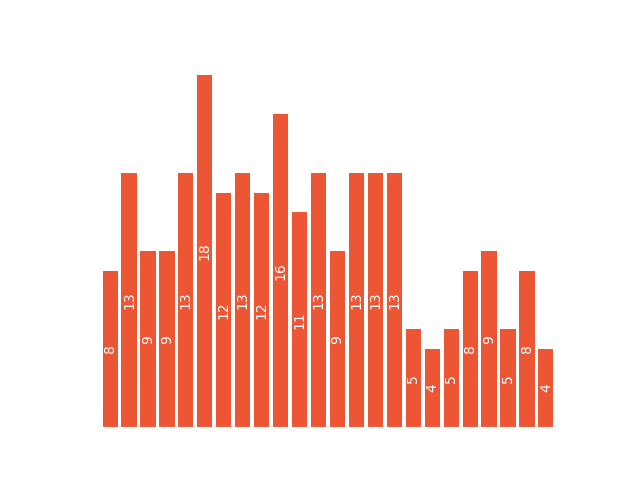
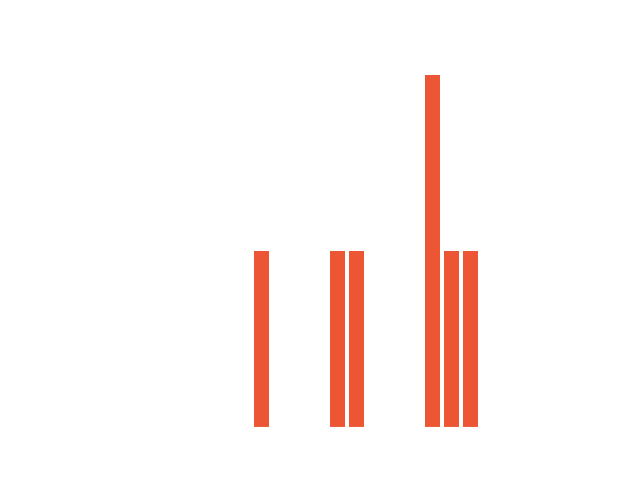
Contest Fixed
pay me

Changed region(s): [[0.1562, 0.1562, 0.875, 0.9062]]

diff --git a/cogs/contest_tracker.py b/cogs/contest_tracker.py
@@ -1,7 +1,7 @@
 # -*- coding: utf-8 -*-
 from __future__ import annotations
 
-from typing import TYPE_CHECKING,Literal
+from typing import TYPE_CHECKING, Literal
 
 import discord
 from discord import app_commands
@@ -9,6 +9,7 @@ from discord.ext import commands
 import aiohttp
 import aiomysql
 import json
+import sys, os
 import time
 import datetime
 import matplotlib.pyplot as plt
@@ -16,79 +17,132 @@ import matplotlib.pyplot as plt
 if TYPE_CHECKING:
     from utils import FarmingCouncil
 
-
 class contesttracker(commands.Cog):
     def __init__(self, bot: FarmingCouncil):
         self.bot: FarmingCouncil = bot
         self.session: aiohttp.ClientSession | None = None
-        
+
     async def setup_hook(self) -> None:
         self.session = aiohttp.ClientSession()
-    
+
     @app_commands.command(description="Find Contests in a given time period")
     @app_commands.guild_only()
-    @app_commands.describe(ign = "Hypixel username", time_period = "Time range you want to")
-    async def contests(self, interaction: discord.Interaction, ign: str, time_period: Literal["1 day", "1 week", "1 month", "6 months", "1 year", "2 years", "3 years"] = "1 week"):
+    @app_commands.describe(ign="Hypixel username", profile= "choose the hypixel skyblock profile", time_period="Use the time range ['1 year', '1month', '6days', '2 weeks']")
+    async def contests(self, interaction: discord.Interaction, ign: str, profile: str = None, time_period: str = "1 week"):
         try:
-            uuid = await self.bot.get_uuid(ign)
-            profile = await self.bot.get_most_recent_profile(uuid)
-            skyblock_data = await self.bot.get_skyblock_data_SLOTHPIXEL(ign, profile, uuid)
+            await interaction.response.send_message("Loading Graph")
+            try:
+                uuid = await self.bot.get_uuid(ign)
+                if profile == None:
+                    profile = await self.bot.get_most_recent_profile(uuid)
+                skyblock_data = await self.bot.get_skyblock_data_SLOTHPIXEL(ign, profile, uuid)
+            except Exception as e:
+                await interaction.edit_original_response(content="Name Invalid, try another IGN")
+                return
+            contests = skyblock_data["jacob2"]["contests"]
+            currenttime = int(time.time())
+            currenttime = str(datetime.datetime.fromtimestamp(currenttime))
+            time_period_fixed = ""
+            amount = ""
+            for i in time_period:
+                if i not in ["0", "1", "2", "3", "4", "5", "6", "7", "8", "9"]:
+                    time_period_fixed += i
+                else:
+                    amount += i
+            time_period = time_period_fixed
+            a = amount
+            days = ["d", " d", "days", " days", "day", " day"]
+            weeks = ["w", " w", "weeks", " weeks", "week", " week"]
+            months = ["m", " m", "months", " months", "month", " month"]
+            years = ["y", " y", "years", " years", "year", " year"]
+            if time_period.lower() in days:
+                amount = int(amount)
+            elif time_period.lower() in weeks:
+                amount = int(amount) * 7
+            elif time_period.lower() in months:
+                amount = int(amount) * 31
+            elif time_period.lower() in years:
+                amount = int(amount) * 365
+            contestsInTimePeriod = {}
+            for contest in contests:
+                day_data = contest.split(":")
+                day = day_data[0] + "_" + day_data[1]
+                skyblockday = day.split("_")
+                year, month, day = skyblockday[0], skyblockday[1], skyblockday[2]
+                epochSeconds = 1560275700 - 14400 - 432000 - 3600
+                totalDays = ((int(year)+1) * 372) + ((int(month)-1) * 31) + (int(day))
+                realLifeSeconds = ((totalDays * 20 ) * 60)
+                skyblockunix = epochSeconds + realLifeSeconds
+                skyblocktime = str(datetime.datetime.fromtimestamp(skyblockunix))
+                difference =  datetime.datetime.fromtimestamp(int(time.time())) - datetime.datetime.fromtimestamp(skyblockunix)
+                difference = str(difference)
+                hours = None
+                try: 
+                    days = int(difference.split(" day, ")[0])
+                except:
+                    try:
+                        days = int(difference.split(" days, ")[0])
+                    except:
+                        hours = difference.split(" days, ")[0].split(":")[0]
+                if hours == None:
+                    if days < amount:
+                        contestsInTimePeriod[skyblocktime] = day_data[2]
+                else:
+                    amount = 24*amount
+                    if int(hours) < amount:
+                        contestsInTimePeriod[skyblocktime] = day_data[2]
+            send = {}
+            for contest in contestsInTimePeriod:
+                contest = datetime.datetime.strptime(str(contest), '%Y-%m-%d %H:%M:%S')
+                
+                try:
+                    send[contest.hour] = send[contest.hour] + 1
+                except:
+                    send[contest.hour] = 1
+            counter = 0
+            timers = []
+            timecounter = 0
+            counters = ()
+            for line in range(0, 24):
+                timers.append(counter)
+                try:
+                    timecounter += int(send[counter])
+                    counters += (int(send[counter]),)
+                except:
+                    counters += (0,)
+                counter += 1
+            fig, ax = plt.subplots()
+            plt.xticks(timers, ["12am", " ", "2am", "", "4am", "", "6am", "", "8am", "", "10am", "", "12pm", " ", "2pm", "", "4pm", "", "6pm", "", "8pm", "", "10pm", " "], rotation=45)
+            bars = ax.bar(timers, counters, color="#ec5635")
+            ax.spines['bottom'].set_color('white')
+            ax.spines['top'].set_color(None)
+            ax.spines['left'].set_color('white')
+            ax.spines['right'].set_color(None)
+            ax.xaxis.label.set_color('white')
+            ax.yaxis.label.set_color('white')
+            ax.tick_params(axis='x', colors='white')
+            ax.tick_params(axis='y', colors='white')
+            ax.bar_label(bars, color="white", rotation=90,
+                        label_type="edge", padding=5)
+            plt.savefig('image.png', transparent=True)
+            image = discord.File("image.png")
+            embed = discord.Embed(
+                title="Contests Tracker", description=f"The chart displays the player's **Jacob Contest's** participation hours in a day (UTC) over the past `{a}{time_period}`.  This information provides a comprehensive view of when the player `{ign}` was online and participated in the contest during this time period.\nTotal amount of Jacob Contest participations: `{timecounter}`", color=0x2F3136)
+            embed.set_image(url='attachment://image.png')
+            embed.set_footer(text="Made by FarmingCouncil",
+                            icon_url="https://i.imgur.com/4YXjLqq.png")
+            if send == {}:
+                embed = discord.Embed(
+                    title="Contests Tracker", description=f"`{ign}` has not particpated in any **Jacob Contest's** in the past `{time_period}`", color=0x2F3136)
+                await interaction.edit_original_response(content="", embed=embed)
+            else:
+                await interaction.edit_original_response(content="", embed=embed, attachments=[image])
         except Exception as e:
-            await interaction.response.send_message("Name Invalid, try another IGN", ephemeral=True)
-            return
-        await interaction.response.send_message("Loading Graph")
-        contests = skyblock_data["jacob2"]["contests"]
-        currenttime = int(time.time())
-        timestable = {"1 day": 86400, "1 week": 604800, "1 month": 2629743, "6 months": 15778458, "1 year": 31556926, "2 years": 31556926*2, "3 years": 31556926*3}
-        contestsInTimePeriod = {}
-        for contest in contests:
-            day_data = contest.split(":")
-            day = day_data[0] + "_"+ day_data[1]
-            skyblockday  = day.split("_")
-            year, month, day = skyblockday[0], skyblockday[1], skyblockday[2]
-            skyblockunix = ((int(year)+1)*365*60*20)+(int(day)*31*60*20)+(int(month)*60*20)+1560275700
-            if currenttime // timestable[time_period] == ((skyblockunix // timestable[time_period])+1):
-                contestsInTimePeriod[skyblockunix] = day_data[2]
-        send = {}
-        for contest in contestsInTimePeriod:
-            try:
-                send[datetime.datetime.fromtimestamp(contest).hour] = send[datetime.datetime.fromtimestamp(contest).hour] + 1
-            except:
-                send[datetime.datetime.fromtimestamp(contest).hour] = 1
-        counter = 0
-        timers = []
-        timecounter = 0
-        counters = ()
-        for line in range(0, 24):
-            timers.append(line)
-            try:
-                timecounter += int(send[counter])
-                counters += (int(send[counter]),)
-            except:
-                counters += (0,)
-            counter += 1
-        fig, ax = plt.subplots()
-        plt.xticks(timers, ["12am ", "", "2am",  "", "4am",  "", "6am",  "", "8am",  "", "10am",  "", "12pm",  "", "2pm",  "", "4pm",  "", "6pm",  "", "8pm",  "", "10pm", ""], rotation=45)
-        bars = ax.bar(timers, counters, color="#ec5635")
-        ax.spines['bottom'].set_color('white')
-        ax.spines['top'].set_color(None)
-        ax.spines['left'].set_color('white')
-        ax.spines['right'].set_color(None)
-        ax.xaxis.label.set_color('white')
-        ax.yaxis.label.set_color('white')
-        ax.tick_params(axis='x', colors='white')
-        ax.tick_params(axis='y', colors='white')
-        ax.bar_label(bars, color="white", rotation=90, label_type= "edge", padding=5) 
-        plt.savefig('image.png', transparent=True) 
-        image = discord.File("image.png")    
-        embed = discord.Embed(title = "Contests Tracker", description = f"The chart displays the player's **Jacob Contest's** participation hours in a day (UTC) over the past `{time_period}`.  This information provides a comprehensive view of when the player `{ign}` was online and participated in the contest during this time period.\nTotal amount of Jacob Contest participations: `{timecounter}`",color=0x2F3136)
-        embed.set_image(url='attachment://image.png')
-        embed.set_footer(text="Made by FarmingCouncil", icon_url="https://i.imgur.com/4YXjLqq.png")
-        if send == {}:
-            embed = discord.Embed(title = "Contests Tracker", description = f"`{ign}` has not particpated in any **Jacob Contest's** in the past `{time_period}`",color=0x2F3136)
-            await interaction.edit_original_response(content="", embed = embed)
-        else:
-            await interaction.edit_original_response(content="", embed = embed, attachments= [image])
+            print(e)
+            exc_type, exc_obj, exc_tb = sys.exc_info()
+            fname = os.path.split(exc_tb.tb_frame.f_code.co_filename)[1]
+            print(exc_type, fname, exc_tb.tb_lineno)
+
 
 async def setup(bot: FarmingCouncil) -> None:
     await bot.add_cog(contesttracker(bot))

diff --git a/cogs/public.py b/cogs/public.py
@@ -34,7 +34,7 @@ class Public(commands.Cog):
     @app_commands.command(description="Credits for the bot")
     @app_commands.guild_only()
     async def credits(self, interaction: discord.Interaction):
-        e = discord.Embed(title="Credits", description="**Director** \n[TheThe](https://www.youtube.com/@FarmingCouncil)\n\n**Development Manager & Lead** \n[CosmicCrow](https://github.com/JeffreyWangDev)\n[NoodlesRush](https://www.youtube.com/watch?v=dQw4w9WgXcQ)\n\n**Developer**\n[Bump](https://github.com/TapXDrew)\n\n**Contributers**\nBankhier\nKingRabbit\nLee_Matod", color=0x2F3136)
+        e = discord.Embed(title="Credits", description="**Director** \n[TheThe](https://www.youtube.com/@FarmingCouncil)\n\n**Development Manager & Lead** \n[CosmicCrow](https://github.com/JeffreyWangDev)\n[NoodlesRush](https://www.youtube.com/watch?v=dQw4w9WgXcQ)\n\n**Developer**\nDyslexus\n\n**Contributers**\nBankhier\nKingRabbit\nLee_Matod", color=0x2F3136)
         e.set_thumbnail(url="https://i.imgur.com/Z75ZL1L.png")
         e.set_footer(text="Made by FarmingCouncil", icon_url="https://i.imgur.com/4YXjLqq.png")
         await interaction.response.send_message(embed=e)
